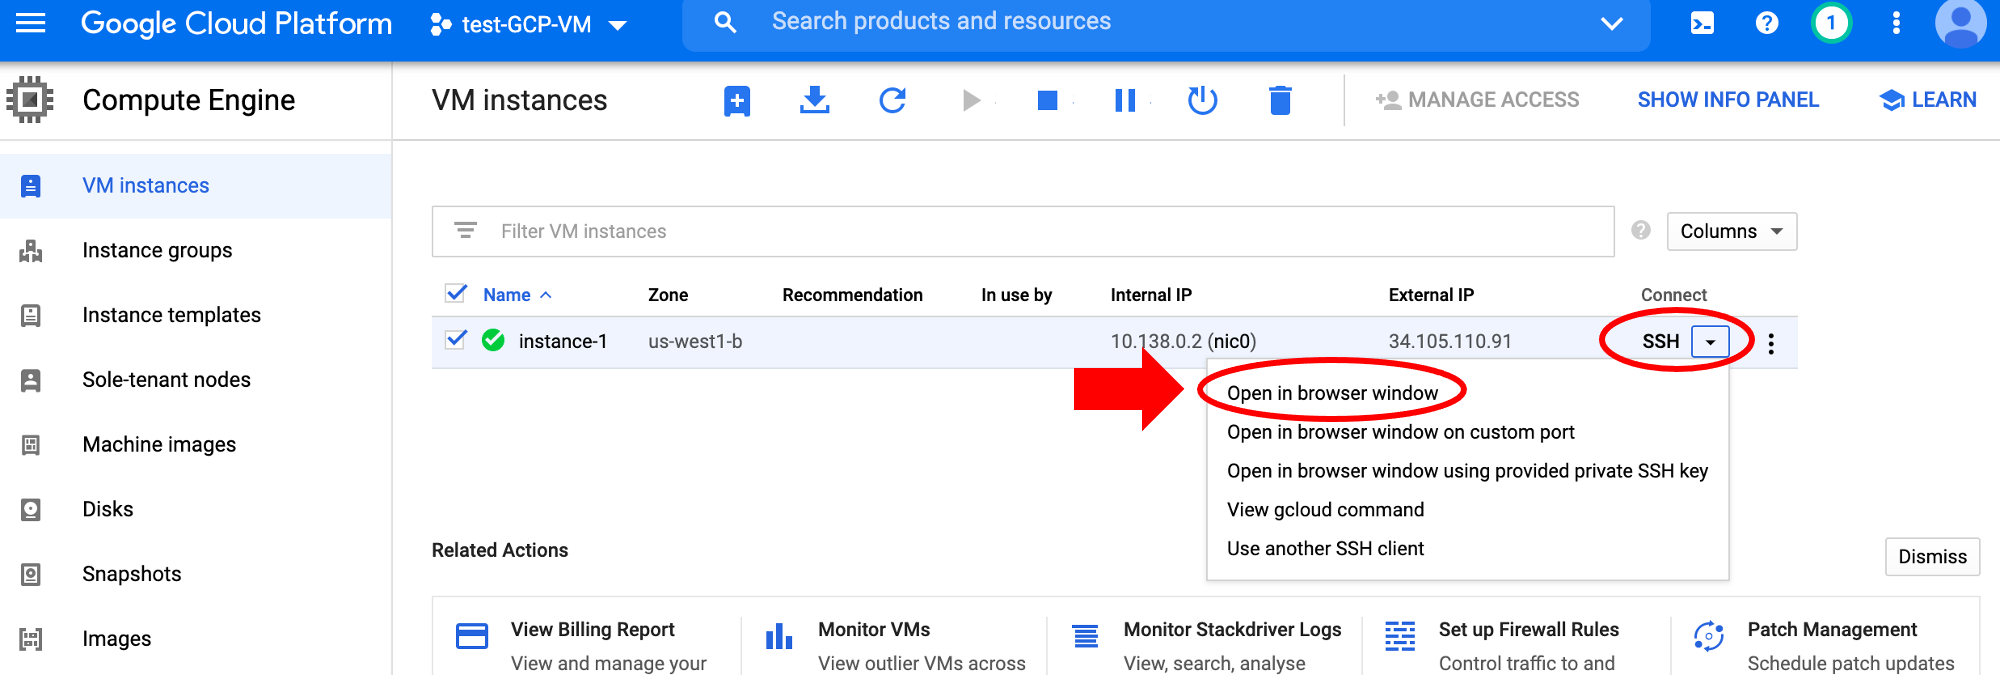
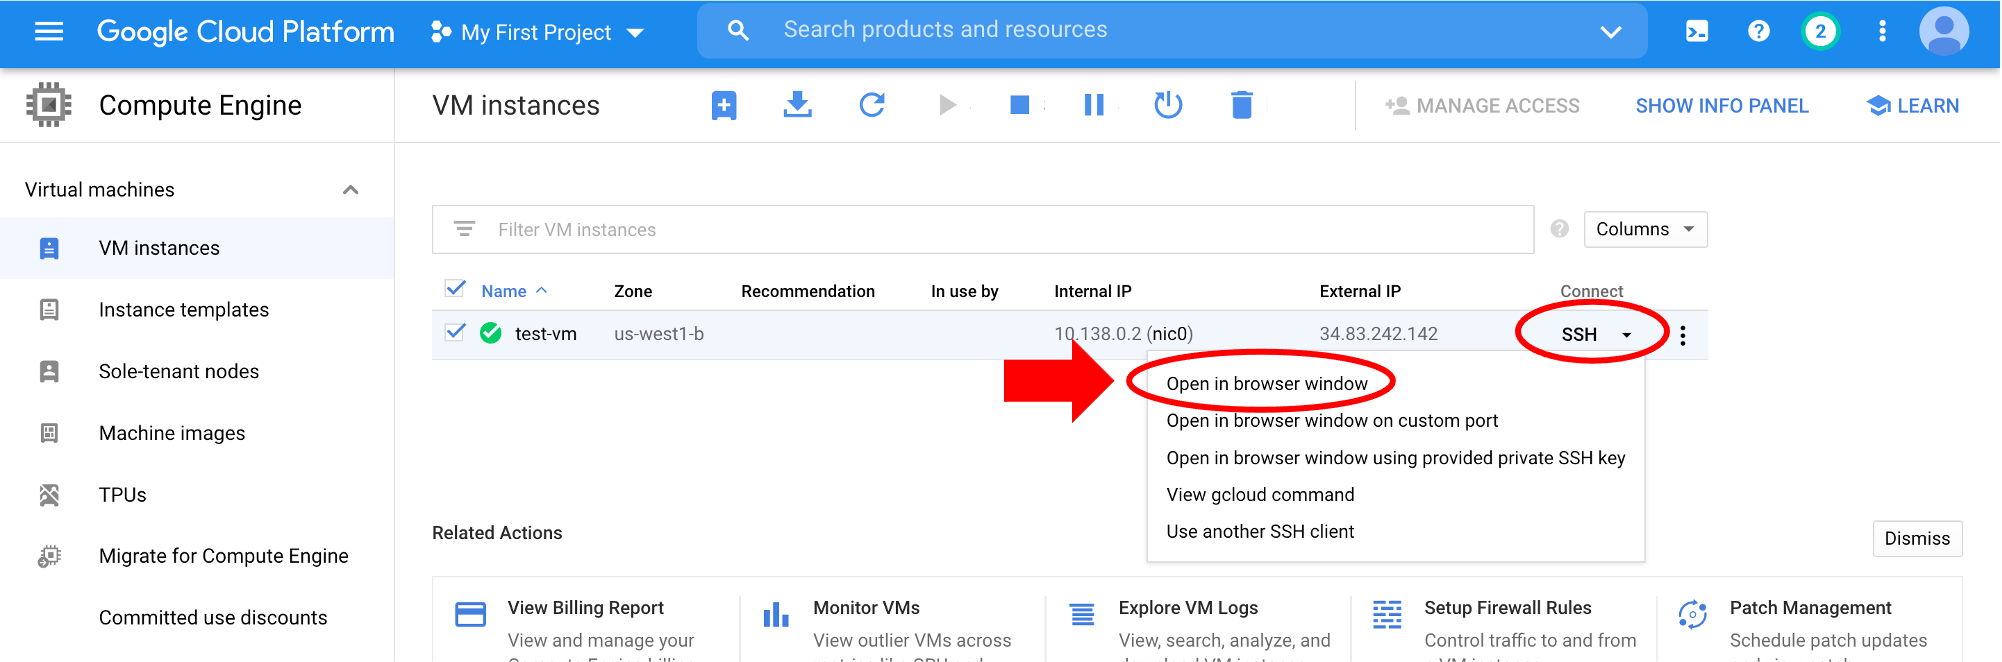
editing, troubleshooting connect to vm steps. added project creation. added imgs

diff --git a/docs/Bioinformatics-Skills/Introduction-to-GCP/gcp2.md b/docs/Bioinformatics-Skills/Introduction-to-GCP/gcp2.md
@@ -2,12 +2,17 @@
 
 ## Step 1: Create a project
 
-- Go to the "Manage Resources" page (it's in the IAM & Admin section) and click "Create Project".
+- Under the "IAM & Admin" section, select the "Manage Resources" page
 
-**TO DO: add image**
-**TO DO: some images have "My First Project" and one has "test-GCP-VM" as project name...let's make those all the same**
+![](../../images/gcp_images/gcp_project1.png "Manage resources tab")
 
-- Enter a project name. The name must be unique. Click "Create".
+- Click on "Create Project", enter a unique project name, and click "Create".
+
+![](../../images/gcp_images/gcp_project2.png "Create Project button")
+
+- The new project is now listed in the table, along with a project ID. You'll need the project ID later to connect to a virtual machine (VM).
+
+![](../../images/gcp_images/gcp_projectid.png "Project ID")
 
 ## Step 2: Configure custom VM
 
@@ -17,15 +22,15 @@
 
 - Click "Create". There are several configuration options to set up:
 
-![](../../images/gcp_images/gcp_vmconfig.png "VM configuration options")
-
 ### 1. Name your VM
 
-Names must be in lowercase letters, numbers. Use hyphens "-" instead of spaces.
+![](../../images/gcp_images/gcp_vmconfig1.png "VM configuration name and region")
+
+Names must be in lowercase letters, numbers. Use hyphens "-" instead of spaces. You'll need the VM name to connect to it.
 
 ### 2. Choose a Region
 
-Several regions are available from the dropdown menu. It is less important which zone you choose, and the interface automatically selects a zone based on the region you choose. We are using "us-west1 (Oregon)".
+Several regions are available from the dropdown menu. It is less important which zone you choose, and the interface automatically selects a zone based on the region you choose. You'll need the zone name to connect to the VM. We are using the "us-west1 (Oregon)" region.
 
 !!! note "Machine regions"
 
@@ -35,7 +40,9 @@ Several regions are available from the dropdown menu. It is less important which
 
 ### 3\. Choose machine type and configuration
 
-The estimated monthly cost for each machine type is shown on the right side panel of the console page. For this tutorial, select Series "N2" and Machine type `n2-standard-2`.
+![](../../images/gcp_images/gcp_vmconfig2.png "VM configuration machine type")
+
+For this tutorial, select Series "E2" and Machine type `e2-micro`. The estimated monthly cost for each machine type is shown on the top right side panel of the console page next to where you entered the VM name.
 
 !!! note "Machine types"
 
@@ -45,7 +52,9 @@ The estimated monthly cost for each machine type is shown on the right side pane
 
 ### 4\. Customize boot disk
 
-Click on "Change". The default operating system is Debian, change it to "Ubuntu" and select version "Ubuntu 20.04 LTS". Set the [persistent disk storage](https://cloud.google.com/persistent-disk); the default is 10Gb. Depending on the tasks you will use the VM for, you may need to increase the storage amount (e.g., to 100Gb).
+![](../../images/gcp_images/gcp_vmconfig3.png "VM configuration boot disk")
+
+Click on "Change". The default operating system is Debian, change it to "Ubuntu" and select version "Ubuntu 20.04 LTS". For this tutorial, we'll leave the [persistent disk storage](https://cloud.google.com/persistent-disk) as the default 10Gb. Depending on the tasks you will use the VM for, you may need to increase the storage amount (e.g., to 100Gb).
 
 !!! note "Persistent disk storage"
 
@@ -55,15 +64,35 @@ When you're done configuring the VM, click "Create".
 
 ## Step 3: Connect to your VM
 
-- Click on the "SSH" dropdown option for your new instance and select "Open in browser window".
+### **stuck here: error**
+```
+(gcloud.compute.ssh) Could not fetch resource:
+ - Insufficient Permission: Request had insufficient authentication scopes.
+```
+it looks like the command changed - in the SSH dropdown menu, there's an option to "View gcloud command" and then run that in the Google Cloud Shell.
+```
+gcloud beta compute ssh --zone "us-west1-b" "test-vm" --project "my-first-project-296523"
+```
+- then it asks to "Authorize Cloud Shell"
+- a bunch of auth stuff, but now it's not recognizing the project ID.
+```
+The project property must be set to a valid project ID, [my-first-project-29
+6523] is not a valid project ID.
+```
+
+
+
+- Select the VM row by checking the box. Click on the "SSH" dropdown option for your new instance and select "Open in browser window" (note that this option works in Chrome, but not in Firefox).
 
 ![](../../images/gcp_images/gcp_vmssh.png "VM SSH dropdown")
 
 A new window will open with the instance terminal. The gear icon at the top right can be used to customize terminal window settings (e.g., appearance, text size).
 
+![](../../images/gcp_images/gcp_vmterminal.png "VM terminal window")
+
 !!! note "Google Cloud Shell"
 
-    Alternatively, you can also access the instance from the Google Cloud Shell or a local laptop terminal (will require installing and setting up [`gcloud`](https://cloud.google.com/sdk/docs/install)).
+    Alternatively, you can access the instance from the Google Cloud Shell or a local laptop terminal (will require installing and setting up [`gcloud`](https://cloud.google.com/sdk/docs/install)).
 
     The GCP console provides a free Google Cloud Shell. This shell environment is useful for small tasks that do *not* require a lot of CPU or memory (as most bioinformatic analyses do). For example, it is a good place to learn how to use the Google shell environment without incurring cost or to access Google Cloud products (e.g., a Google Storage bucket or GCP virtual machine).
 
@@ -73,11 +102,17 @@ A new window will open with the instance terminal. The gear icon at the top righ
 
 - Access the instance, by entering the `gcloud compute ssh` command in the instance terminal window. You'll need your project ID, zone, and instance name.
 
-**TO DO: test this command again, don't remember having to set the zone**
-
 ```
 gcloud compute ssh --project <PROJECT_ID> --zone <ZONE> <INSTANCE_NAME>
 ```
+
+
+
+
+
+
+
+
 
 ## Step 4: Use the VM
 
@@ -87,16 +122,18 @@ You now have a custom configured VM! Things we could do at this point include:
 - [Pull in a docker container](./gcp4.md) to get software without a bunch of software installations
 - Run analysis. For example, we could run the [command-line Blast tutorial commands](../Command-Line-BLAST/BLAST1.md) in this GCP instance (instead of the AWS instance used in the tutorial).
 
+Type "exit" in the terminal to close it.
+
 **TO DO: test if blast steps work in GCP instance - probably can choose a smaller VM**
 
-## Step 5: Terminating the instance
+## Step 5: Stop or delete the instance
 
-When you're finished using the virtual machine, be sure to stop or terminate it, otherwise it will continue to incur costs.
+When you're finished using the virtual machine, be sure to stop or delete it, otherwise it will continue to incur costs.
 
-There are two options:
+There are two options (click on the three vertical dots):
 
-- You can "Stop" the instance (on the console page, click the 3 vertical dots). This will pause the instance, so it's not running, but it will still incur storage costs. This is a good option if you want to come back to this instance (click "Start") without having to reconfigure and download files every time.
+- You can "Stop" the instance. This will pause the instance, so it's not running, but it will still incur storage costs. This is a good option if you want to come back to this instance (click "Start") without having to reconfigure and download files every time.
 
-- If you're completely done with the instance, you can "Delete" it. This will delete all files though, so [download](./gcp3.md) the files you want to keep!
+- If you're completely done with the instance, you can "Delete" it. This will delete all files though, so [download](./gcp3.md) any files you want to keep!
 
-**TO DO: add image of these options**
+![](../../images/gcp_images/gcp_vmstop.png "Stop or delete VM")

diff --git a/docs/Bioinformatics-Skills/Introduction-to-GCP/index.md b/docs/Bioinformatics-Skills/Introduction-to-GCP/index.md
@@ -31,7 +31,7 @@ Est. Time | Lesson name | Description
 
 === "Prerequisites"
 
-    - Technology: Users must be comfortable with using a terminal window.
+    - Technology: Users must be comfortable with using a terminal window. Please use the Chrome web browser for setting up and connecting to a GCP virtual machine.
 
     - Financial: First time GCP users require a valid credit card to set up a GCP billing account. New users can sign up for a free 3-month $300 trial during billing account set up.
 

diff --git a/docs/Bioinformatics-Skills/Introduction-to-GCP/gcp1.md b/docs/Bioinformatics-Skills/Introduction-to-GCP/gcp1.md
@@ -17,7 +17,7 @@ In this tutorial, we will show you how to set up an individual account.
 
 ## Step 1: Sign in to GCP
 
-- Click on "Sign in" on the top right corner and sign in with a Google account at: [https://cloud.google.com/](https://cloud.google.com/). 
+- Click on "Sign in" on the top right corner and sign in with a Google account at: [https://cloud.google.com/](https://cloud.google.com/) with the Chrome web browser.
 
 ![](../../images/gcp_images/gcp_login.png "GCP sign in button")
 
